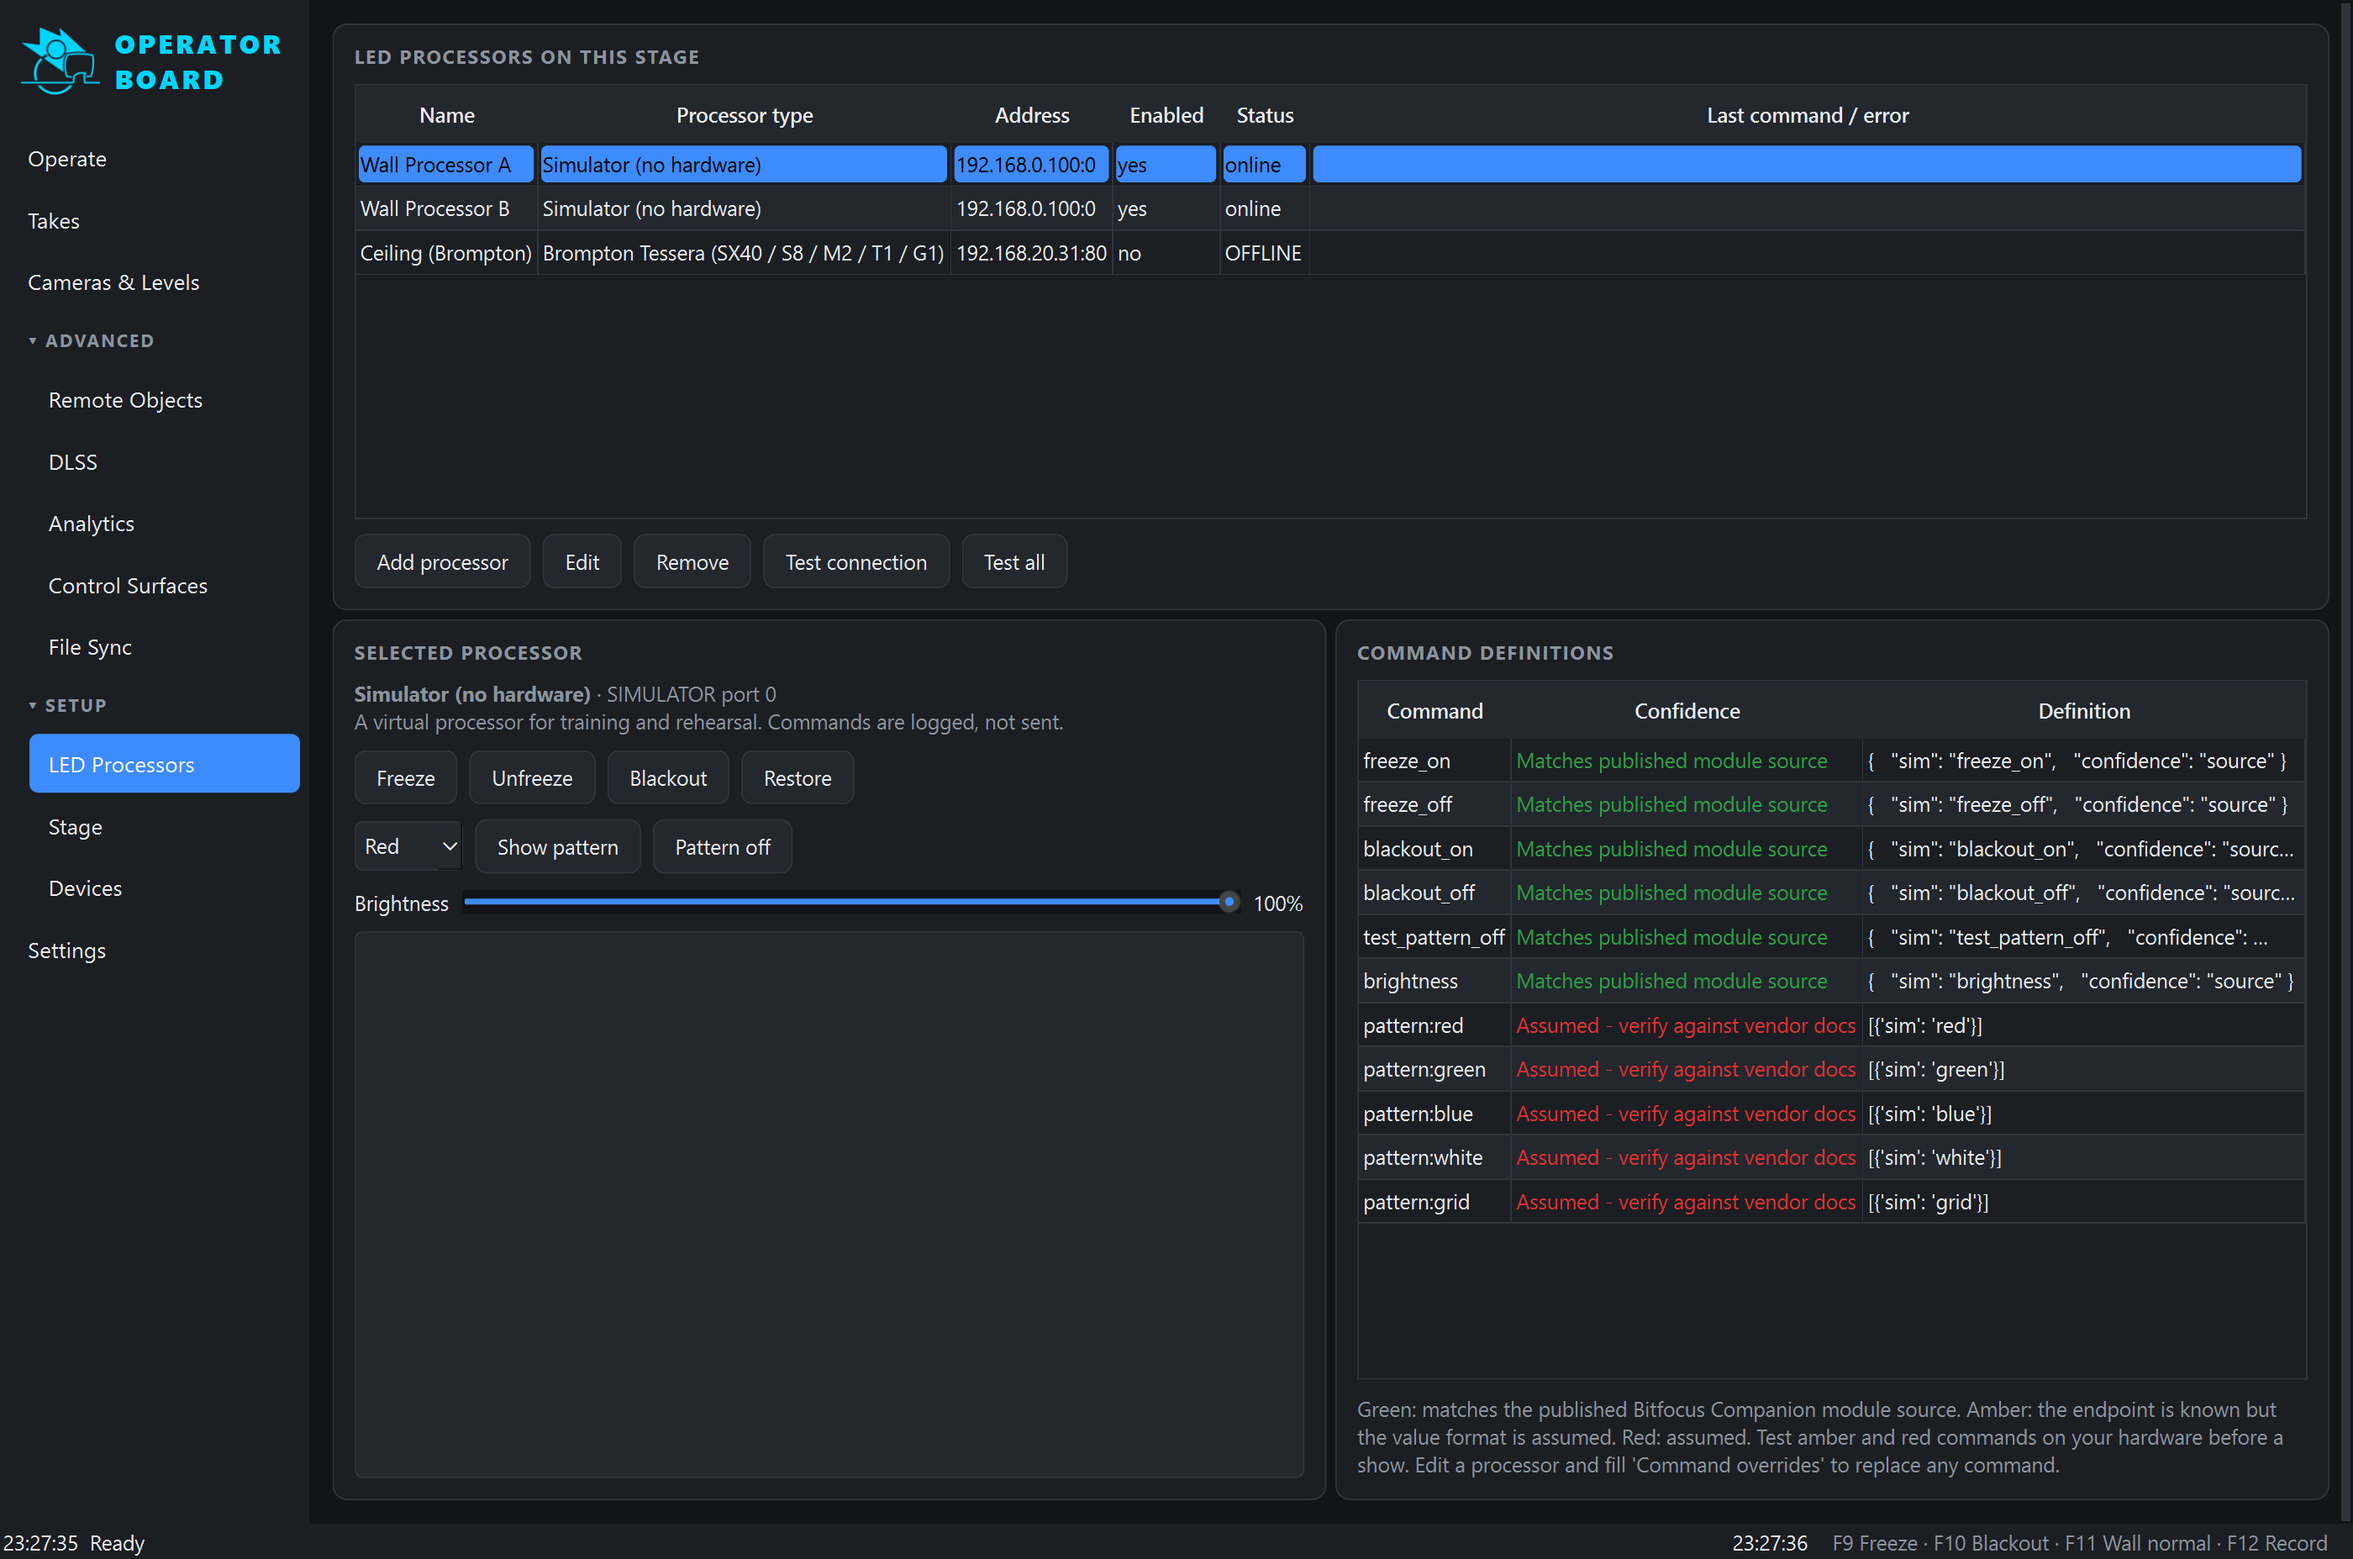
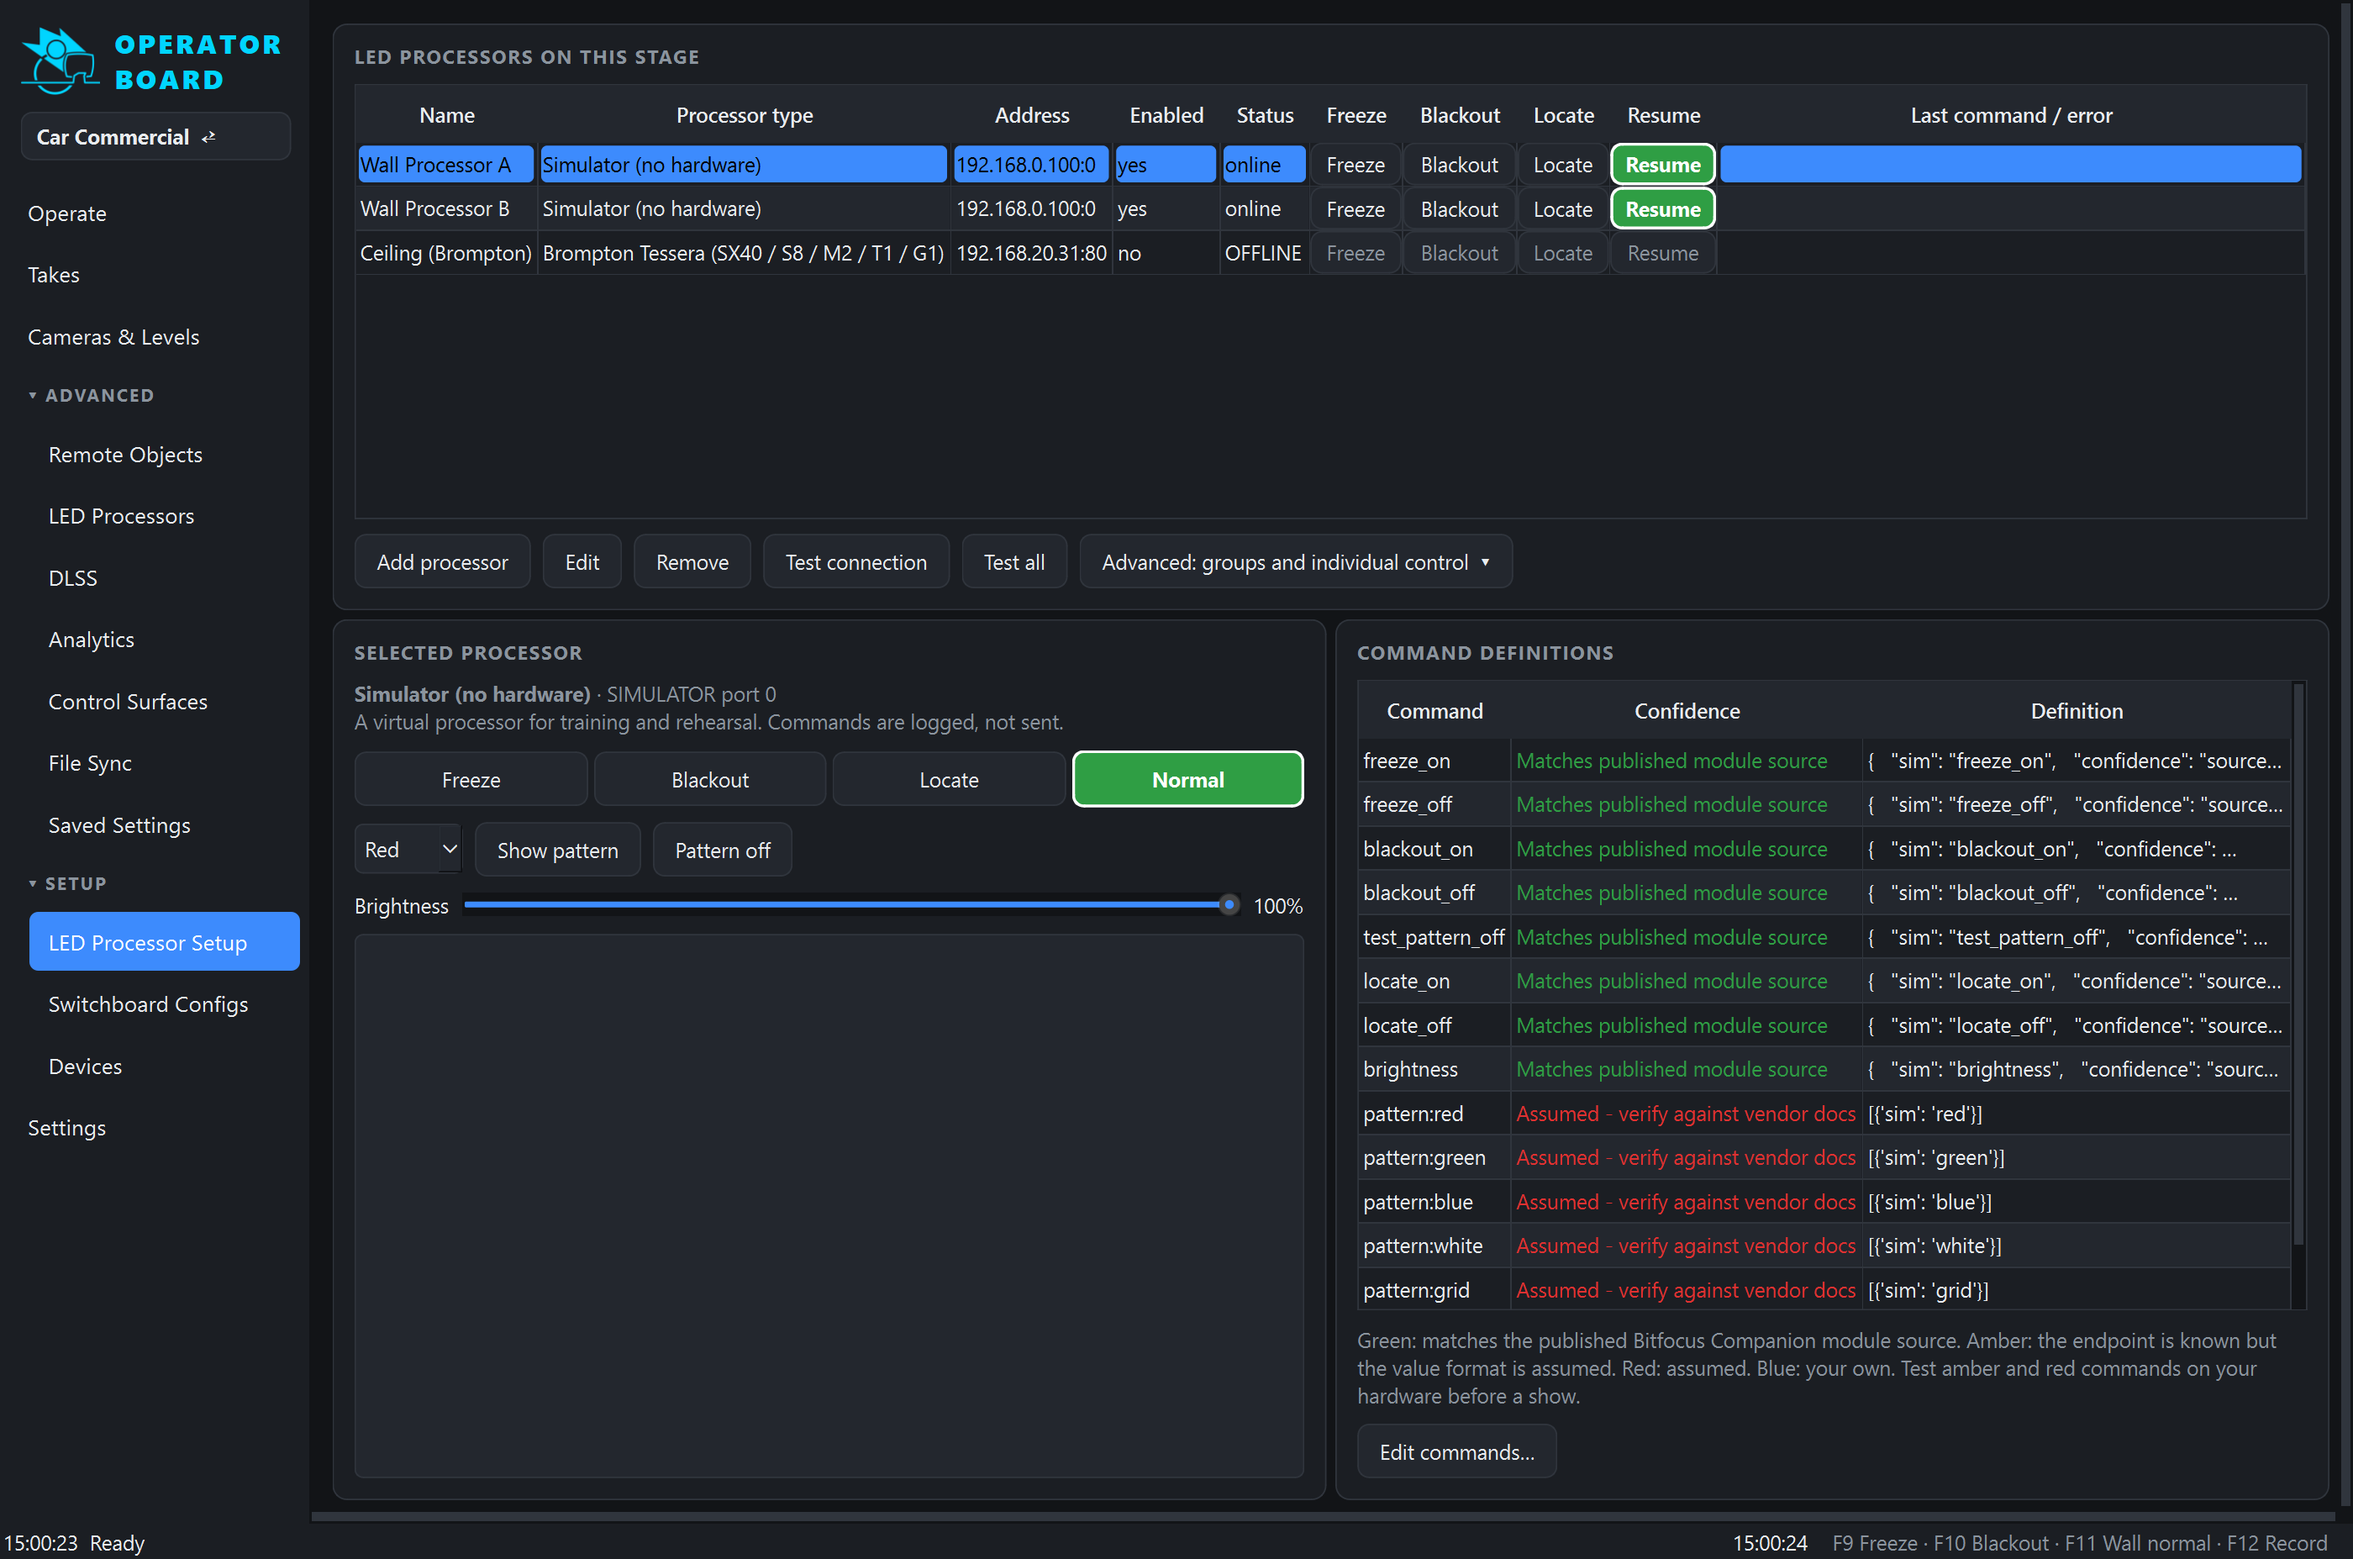
Screenshots: name the demo project and refresh the README images for 0.7.0
The project button showed "No project" since 0.7.0; the demo now opens
"Car Commercial". All images regenerated with docs/make_screenshots.py.

diff --git a/docs/make_screenshots.py b/docs/make_screenshots.py
@@ -133,9 +133,11 @@ def hide_local_paths(page, folder):
 
 def main() -> int:
     app = QtWidgets.QApplication.instance() or QtWidgets.QApplication(sys.argv)
+    from operator_board.core.projects import ProjectInfo
     from operator_board.ui.main_window import MainWindow
 
     ctx = demo_context()
+    ctx.project = ProjectInfo(name="Car Commercial", production="Car Commercial")  # the sidebar's project button
     folder = link_switchboard_config(ctx)
     window = MainWindow(ctx)
     window.resize(1600, 1060)
